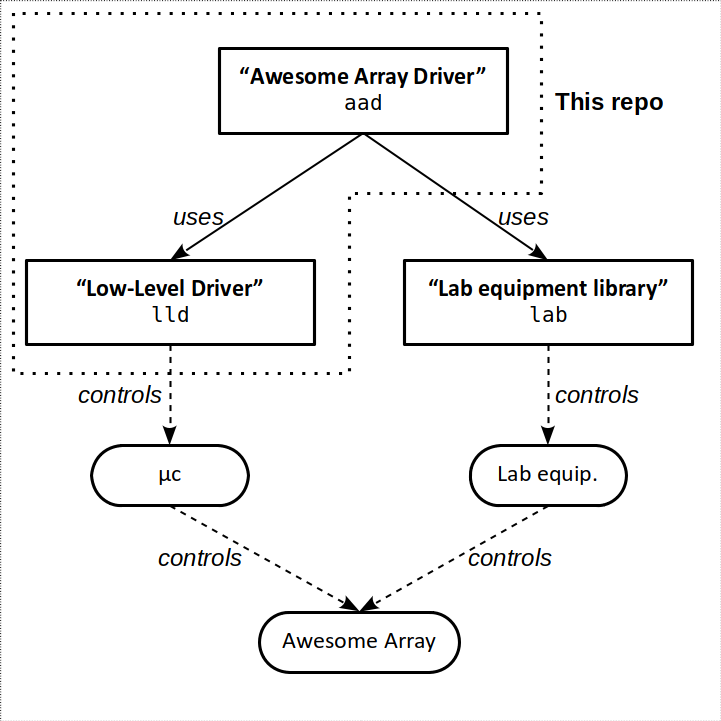
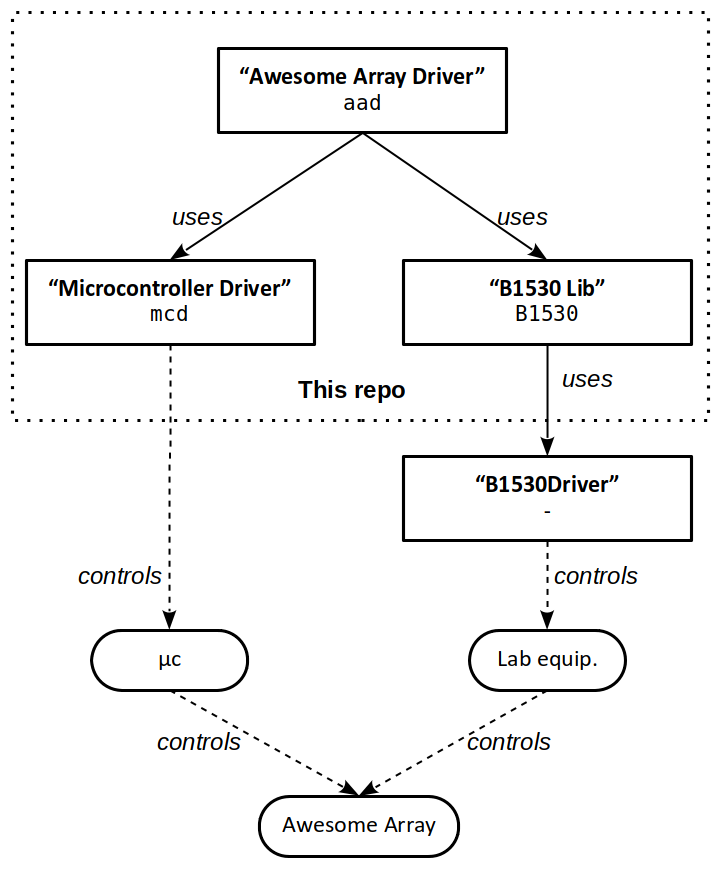
Prepare library for lab eqip. impl

diff --git a/aad/__init__.py b/aad/__init__.py
@@ -1,13 +1,13 @@
 from typing import List
 
-import aad.lld
+import aad.mcd
 
-# Utils export from lld
-print_ports = lld.LLDriver.print_ports
+# Utils export from mcd
+print_ports = mcd.MCDriver.print_ports
 
-from aad.lld import WLE, WLO, SL, BL, BLB
+from aad.mcd import WLE, WLO, SL, BL, BLB
 
-SR_LIST      = [lld.WLE, lld.WLO, lld.SL, lld.BL, lld.BLB]
+SR_LIST      = [mcd.WLE, mcd.WLO, mcd.SL, mcd.BL, mcd.BLB]
 SR_COUNT     = len(SR_LIST)
 SR_WORD_SIZE = 64
 
@@ -17,11 +17,11 @@ def get_sr_name(sr_id):
 	"""
 
 	return {
-		lld.WLE: 'WLE',
-		lld.WLO: 'WLO',
-		lld.SL : 'SL' ,
-		lld.BL : 'BL' ,
-		lld.BLB: 'BLB',
+		mcd.WLE: 'WLE',
+		mcd.WLO: 'WLO',
+		mcd.SL : 'SL' ,
+		mcd.BL : 'BL' ,
+		mcd.BLB: 'BLB',
 	}[sr_id]
 
 
@@ -32,11 +32,11 @@ class AwesomeArrayDriver():
 		...
 		Attributes
 		----------
-		_lld: lld.LLDriver
+		_mcd: mcd.MCDriver
 			The low-level driver used for the µc
 	"""
 
-	def __init__(self, pid = lld.LLDriver.DEFAULT_PID):
+	def __init__(self, pid = mcd.MCDriver.DEFAULT_PID):
 		"""
 		Creates the driver.
 
@@ -48,7 +48,7 @@ class AwesomeArrayDriver():
 		Arguments:
 			pid: optional, the pid to search for.
 		"""
-		self._lld = lld.LLDriver(pid)
+		self._mcd = mcd.MCDriver(pid)
 		self.reset_state()
 
 		# Also needs lab driver
@@ -57,9 +57,9 @@ class AwesomeArrayDriver():
 		"""
 		Resets the state of the driver, to run after exception catching for example.
 		"""
-		self._lld.flush_input()
-		self._lld.send_command('ACK_MODE', lld.ACK_ALL, wait_for_ack=True)
-		self._lld.flush_input()
+		self._mcd.flush_input()
+		self._mcd.send_command('ACK_MODE', mcd.ACK_ALL, wait_for_ack=True)
+		self._mcd.flush_input()
 
 	##### µC-RELATED METHODS #####
 	def get_sr_configuration(self, col: int, row: int, bar: bool, set: bool):
@@ -73,17 +73,17 @@ class AwesomeArrayDriver():
 		Returns:
 			An array containing the computed shift registers words
 		"""
-		sr_words = [0, 0, 0, 0, 0] # Indices are the same as lld.WLE/WLO/...
+		sr_words = [0, 0, 0, 0, 0] # Indices are the same as mcd.WLE/WLO/...
 
 		# Dispatch the WL bits between the Odd and Even registers
 		if row % 2 == 0:
-			sr_words[lld.WLE] = (True << (row // 2))
+			sr_words[mcd.WLE] = (True << (row // 2))
 		else:
-			sr_words[lld.WLO] = (True << ((row - 1) // 2))
+			sr_words[mcd.WLO] = (True << ((row - 1) // 2))
 
-		sr_words[lld.SL]  = (set << col)
-		sr_words[lld.BL]  = ((bar == set) << col)
-		sr_words[lld.BLB] = ((bar != set) << col)
+		sr_words[mcd.SL]  = (set << col)
+		sr_words[mcd.BL]  = ((bar == set) << col)
+		sr_words[mcd.BLB] = ((bar != set) << col)
 
 		return sr_words
 
@@ -96,14 +96,14 @@ class AwesomeArrayDriver():
 		"""
 		for bit_id in reversed(range(SR_WORD_SIZE)):
 			for sr_id, sr_word in enumerate(sr_words):
-				self._lld.send_command('SET_SR', sr_id, (sr_word >> bit_id) & 1, wait_for_ack=True)
+				self._mcd.send_command('SET_SR', sr_id, (sr_word >> bit_id) & 1, wait_for_ack=True)
 
 			# As all the sr share the same clk, we pulse after setting every individual inputs
-			self._lld.send_command('CLK', wait_for_ack=True)
+			self._mcd.send_command('CLK', wait_for_ack=True)
 
 		# Reset every inputs afterward
 		for sr_id in SR_LIST:
-				self._lld.send_command('SET_SR', sr_id, lld.RESET, wait_for_ack=True)
+				self._mcd.send_command('SET_SR', sr_id, mcd.RESET, wait_for_ack=True)
 
 	def configure_sr(self, col: int, row: int, bar: bool, set: bool):
 		"""
@@ -139,10 +139,10 @@ class AwesomeArrayDriver():
 
 		for bit_id in reversed(range(SR_WORD_SIZE)):
 			for sr_id, sr_word in enumerate(sr_words):
-				self._lld.send_command('GET_CTL', sr_id)
+				self._mcd.send_command('GET_CTL', sr_id)
 
 				set_val = (((sr_word >> bit_id) & 1) == 1)
-				sr_val = (self._lld.read() == lld.SET)
+				sr_val = (self._mcd.read() == mcd.SET)
 
 				sanity[sr_id][bit_id] = (set_val == sr_val)
 

diff --git a/aad/mcd.py b/aad/mcd.py
@@ -1,23 +1,26 @@
 import serial
 import serial.tools.list_ports
 
+# Shift Registers IDs
 WLE = 0x00
 WLO = 0x01
 SL  = 0x02
 BL  = 0x03
 BLB = 0x04
 
+# Shift Register state code
 SET   = b'\x01'
 RESET = b'\x00'
 
+# Acknowledge Mode Flags
 ACK_NONE   = 0x00
 ACK_SET_SR = 0x01
 ACK_CLK    = 0x02
 ACK_ALL    = ACK_SET_SR | ACK_CLK
 
-class LLDriver():
+class MCDriver():
 	"""
-	Low-Level driver for the Awesome Array Python Driver.
+	µc driver for the Awesome Array Python Driver.
 
 	
 	...
@@ -91,28 +94,28 @@ class LLDriver():
 	def commands(name = None):
 		"""[STATIC] Returns a list of the available µc commands or its hex code if a name is provided."""
 		if name is None:
-			return list(LLDriver._opDic.keys())
+			return list(MCDriver._opDic.keys())
 		else:
-			return LLDriver._opDic[name]
+			return MCDriver._opDic[name]
 
 	def send_command(self, command, *kwargs, wait_for_ack=False):
 		"""
 		Sends a command to the µc with the optionnaly provided arguments.
 
 		Parameters:
-			command: The command to send (see LLDriver.commands())
+			command: The command to send (see MCDriver.commands())
 			*kwargs: The provided arguments, which will be converted to bytes
 
 		Returns:
 			The actual number of bytes sent.
 
 		"""
-		if command not in LLDriver._opDic:
+		if command not in MCDriver._opDic:
 			raise Exception("Command not found")
 		if not self.ser.is_open:
 			raise Exception("Serial port not open")
 
-		cmd = b'\xAA' + LLDriver._opDic[command]
+		cmd = b'\xAA' + MCDriver._opDic[command]
 		for arg in kwargs:
 			if isinstance(arg, int):
 				cmd += arg.to_bytes(1, byteorder='big')
@@ -124,7 +127,7 @@ class LLDriver():
 
 		if wait_for_ack:
 			ack = self.read(2, flush_rest=False)
-			if ack != b'\xAA' + LLDriver._opDic[command]:
+			if ack != b'\xAA' + MCDriver._opDic[command]:
 				raise Exception(f"Expected ack for command '{command}', got '{ack}'")
 
 		return res

diff --git a/README.md b/README.md
@@ -5,10 +5,10 @@ Python drivers to control the Awesome Array @ C2N.
 ## Installation
 This library requires:  
 * `pyserial` version 0.0.97 or any other compatible 
-* `lab library` @ [GitHub Repo](https://github.com/tvbv/controle_manip)
+* ...
 
 #### **Linux users only**
-`lab library` is not available on Linux but to test out only `lldriver`, you will need to add your user to the `dialout` group:  
+Only `mcdriver` is available on Linux. In order to test it out, you will need to add your user to the `dialout` group:  
 > sudo usermod -aG dialout $USER`
 
 ## Library Architecture
@@ -17,10 +17,14 @@ This library requires:
 </p>
 
 ## Usage
-### Low-Level Driver
-This should not be used unless a low-level change is needed for the `aad`.  
-See [`demo/lldriver.ipynb`](demo/lldriver.ipynb) for a demo.
-
 ### Awesome Array Driver
 The high-level driver intended to be used.  
 See [`demo/aadriver.ipynb`](demo/aadriver.ipynb) for a demo. 
+
+### Microcontroller Driver
+This should not be used unless a low-level change with the µc is needed for the `aad`.  
+See [`demo/mcdriver.ipynb`](demo/mcdriver.ipynb) for a demo.
+
+### B1530 Library
+This should not be used unless a low-level change with the B1530 is needed for the `aad`.  
+Coming soon...
